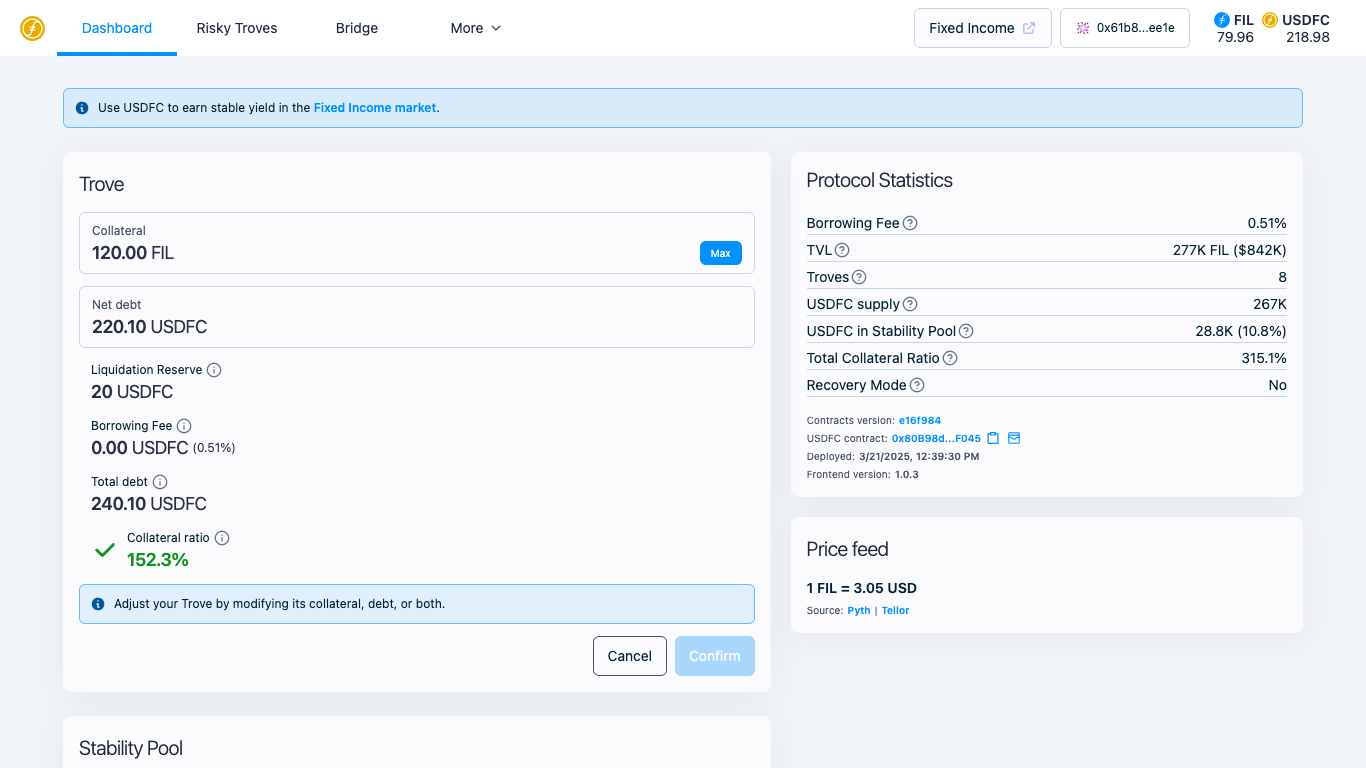
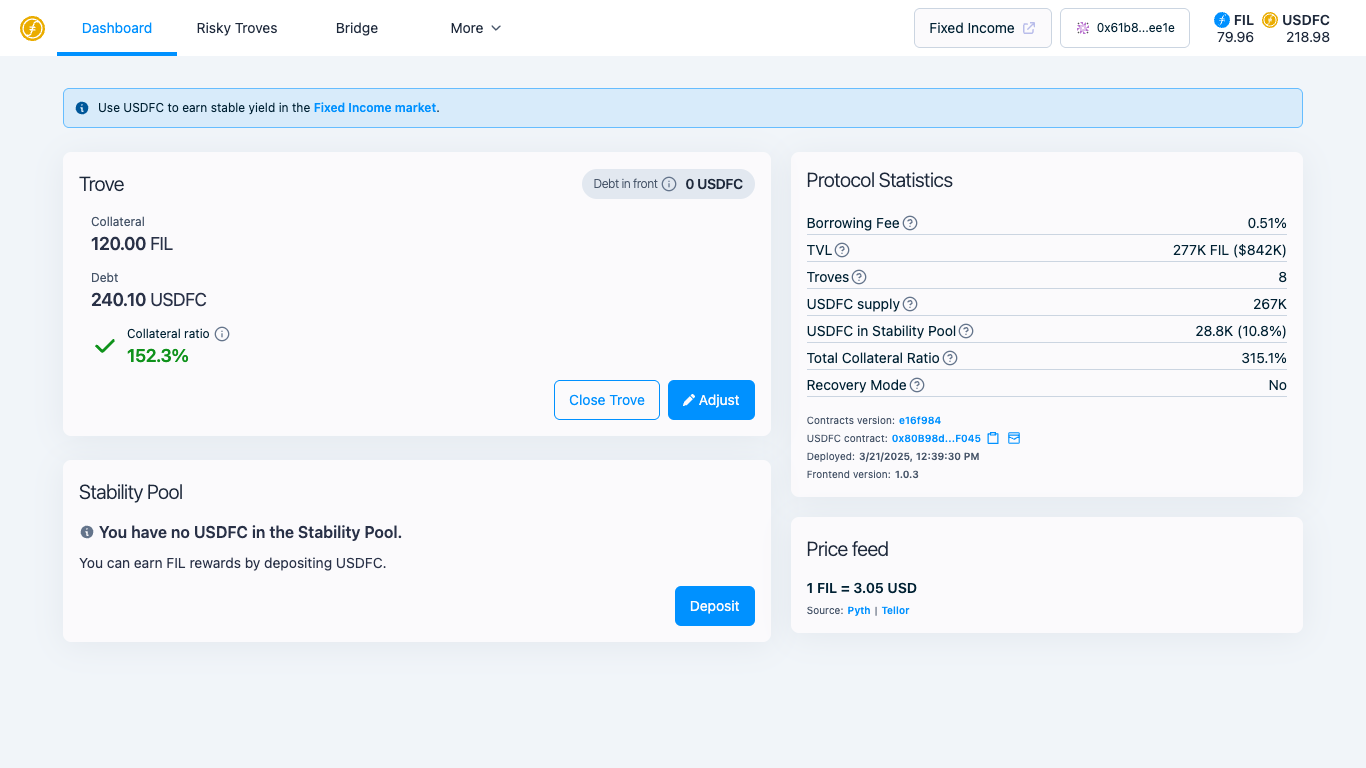
GITBOOK-238: No subject

diff --git a/usdfc-stablecoin/getting-started/getting-test-usdfc-on-testnet.md b/usdfc-stablecoin/getting-started/getting-test-usdfc-on-testnet.md
@@ -66,6 +66,21 @@ After minting, you'll want to see your test USDFC in your wallet.
 
 <figure><img src="../../.gitbook/assets/Screenshot 2025-05-30 at 1.53.26.png" alt=""><figcaption><p>Adding USDFC to Wallet</p></figcaption></figure>
 
+## Step 5: Closing Your Trove
+
+Most cases, 'Adjust' should allow withdrawing collateralized FIL, but if you no longer need to use USDFC system, you can close your trove and you can reopen a trove again.
+
+{% hint style="warning" %}
+Don't forget to repay the borrowing fees. If you wish to close the trove with the USDFC amount you just borrowed, it doesn't work. You should repay borrowing fees. Please get additional USDFC from another account or via swap.
+{% endhint %}
+
+1. On the Dashboard page, navigate to the "Trove" section
+2. Click "Close Trove" button
+3. If you see error message that you need more USDFC to pay borrowing fees, please get it.
+4. Click "Confirm"
+
+<figure><img src="../../.gitbook/assets/image.png" alt=""><figcaption><p>Closing Your Trove requires repayment of the borrowed amount and fees in USDFC</p></figcaption></figure>
+
 ## Using Test USDFC on Testnet
 
 Now that you have test USDFC, you can explore various features of the USDFC ecosystem on testnet:

diff --git a/usdfc-stablecoin/getting-started/managing-collateral-effectively.md b/usdfc-stablecoin/getting-started/managing-collateral-effectively.md
@@ -23,7 +23,7 @@ First, you need to access your existing Trove in the USDFC application.
 3. Go to the "Trove" section on the USDFC Dashboard page
 4. Review your current collateral amount, debt, and collateral ratio
 
-<figure><img src="../../.gitbook/assets/image.png" alt=""><figcaption><p>Trove dashboard showing current position details</p></figcaption></figure>
+<figure><img src="../../.gitbook/assets/image (1).png" alt=""><figcaption><p>Trove dashboard showing current position details</p></figcaption></figure>
 
 ## Step 2: Select "Adjust Trove"
 
@@ -32,7 +32,7 @@ To manage your collateral, you need to adjust your Trove.
 1. Click on the "Adjust" button
 2. This will open the Trove adjustment interface
 
-<figure><img src="../../.gitbook/assets/image (1).png" alt=""><figcaption><p>"Adjust Trove" interface</p></figcaption></figure>
+<figure><img src="../../.gitbook/assets/image (1) (1).png" alt=""><figcaption><p>"Adjust Trove" interface</p></figcaption></figure>
 
 ## Step 3: Add or Withdraw Collateral
 

diff --git a/usdfc-stablecoin/getting-started/minting-usdfc-step-by-step.md b/usdfc-stablecoin/getting-started/minting-usdfc-step-by-step.md
@@ -40,7 +40,7 @@ To mint additional USDFC, you need to adjust your Trove.
 "Net debt" is Total Debt - Liquidation Reserve. In this example, 221.02 - 20 = 201.02 USDFC.
 {% endhint %}
 
-<figure><img src="../../.gitbook/assets/image (1) (1).png" alt=""><figcaption><p>Screenshot after clicking the "Adjust Trove" button</p></figcaption></figure>
+<figure><img src="../../.gitbook/assets/image (1) (1) (1).png" alt=""><figcaption><p>Screenshot after clicking the "Adjust Trove" button</p></figcaption></figure>
 
 ## Step 3: Specify Minting Amount
 

diff --git a/usdfc-stablecoin/core-mechanics/system-overview.md b/usdfc-stablecoin/core-mechanics/system-overview.md
@@ -26,7 +26,7 @@ The protocol operates through several key components that work together to maint
 
 ### Recovery Mode
 
-<figure><img src="../../.gitbook/assets/image (1) (1) (1).png" alt="Recovery Mode Architecture"><figcaption><p>USDFC Protocol Architecture in Recovery Mode</p></figcaption></figure>
+<figure><img src="../../.gitbook/assets/image (1) (1) (1) (1).png" alt="Recovery Mode Architecture"><figcaption><p>USDFC Protocol Architecture in Recovery Mode</p></figcaption></figure>
 
 ## Key Parameters
 
